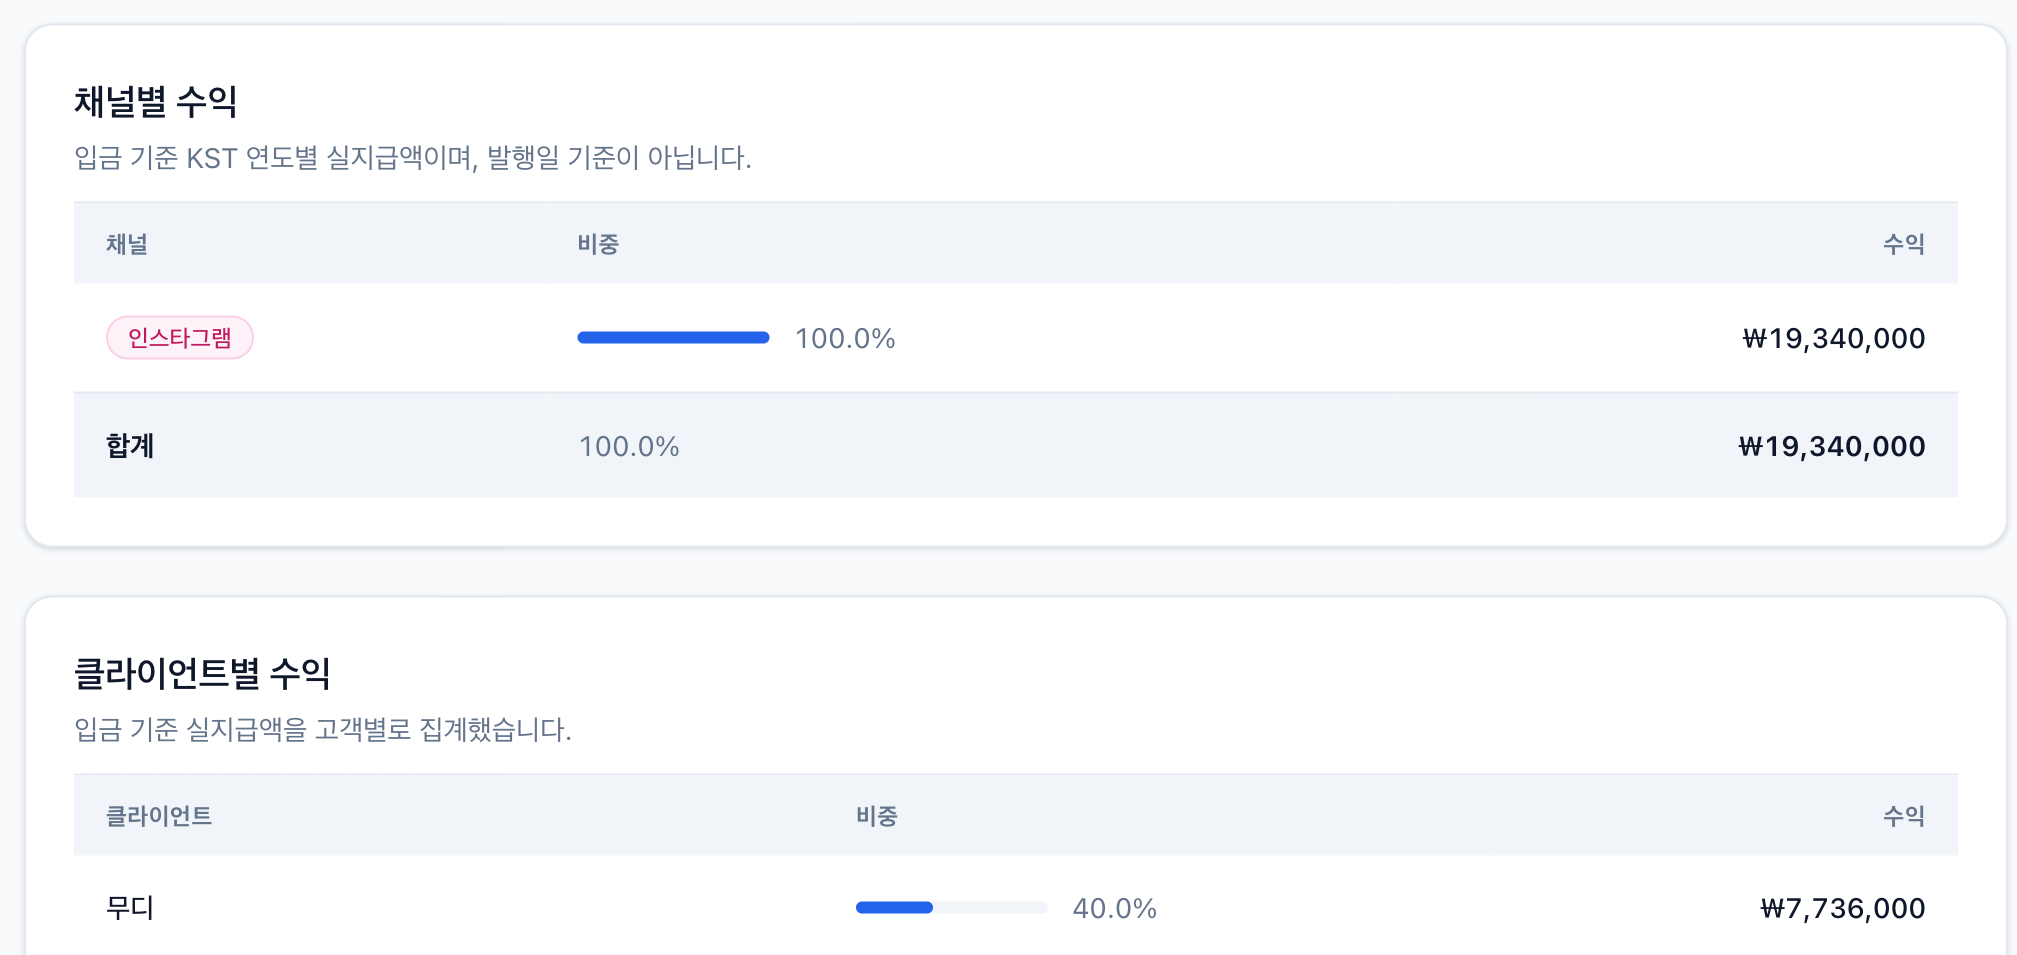
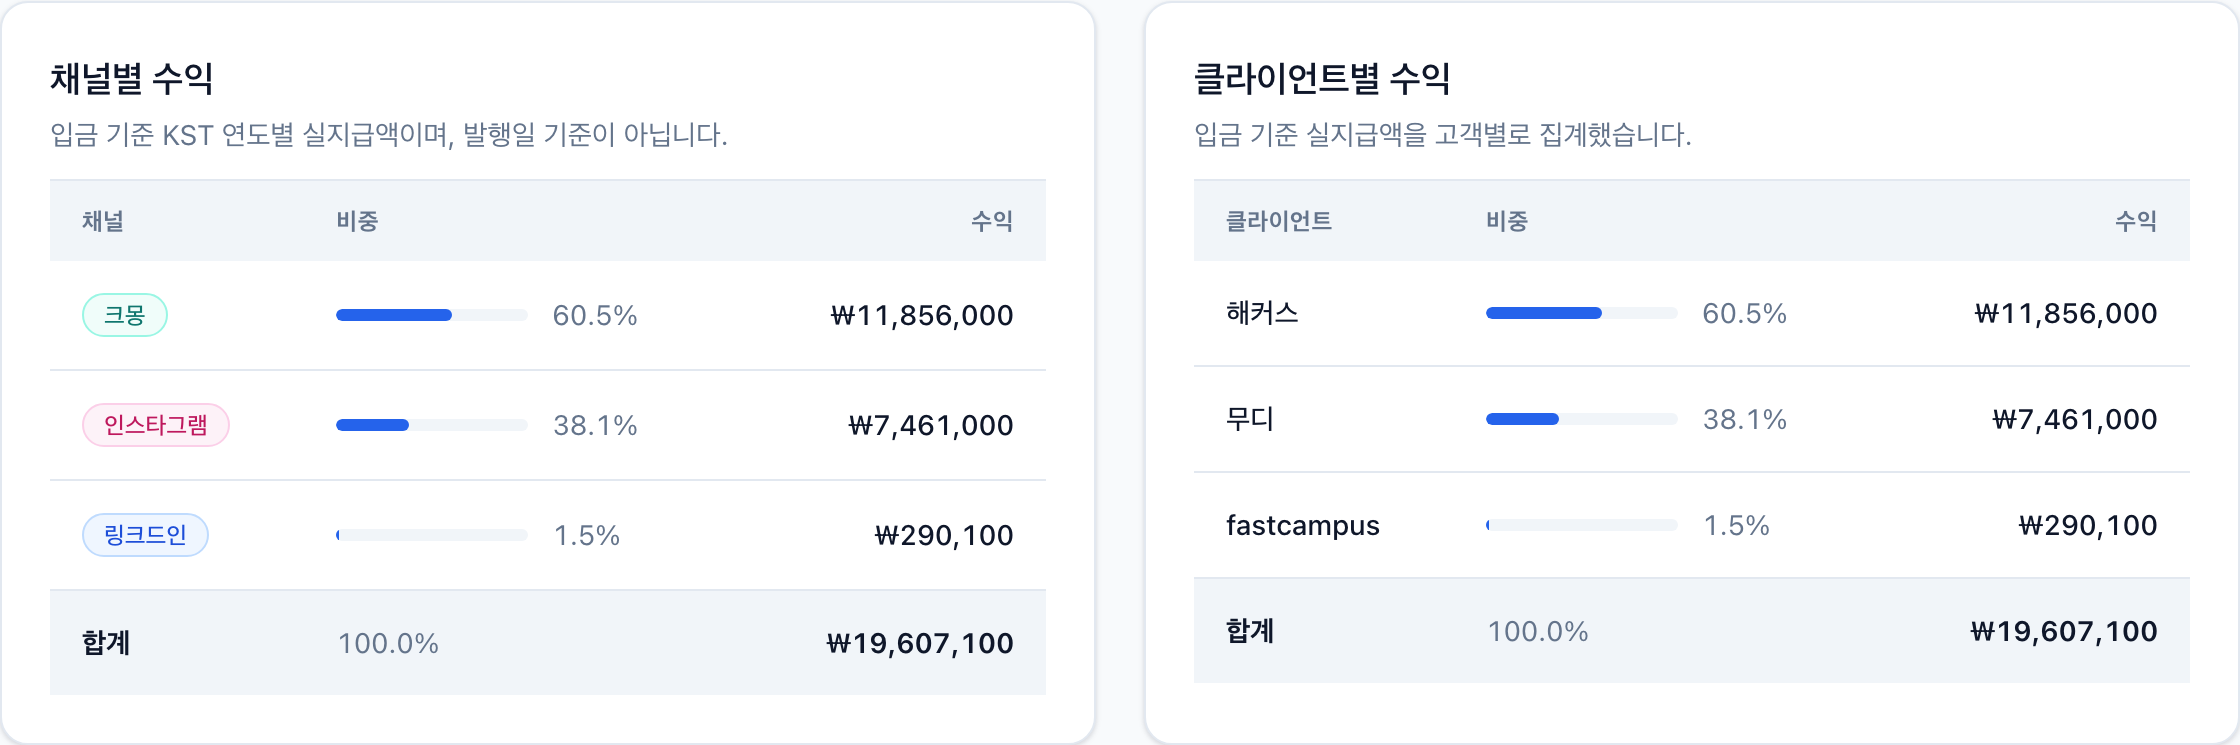
fix(ui): Pro 미리보기 캡처·엑셀 제목 서식·사이드바 뱃지 다듬기
- 요금제 미리보기의 채널·클라이언트 수익 캡처가 lg 미만 폭에서 찍혀 세로로
  쌓여 있었다. 실제 리포트(lg:grid-cols-2)와 같은 가로 배치로 다시 캡처했다.
- 엑셀 원장 제목이 과하게 두꺼워 bold를 뺀다. 크기(18pt)·배경·테두리로
  이미 구분되므로 굵기는 필요 없다. 실제 파일이 바뀐 만큼 미리보기 캡처도
  새 서식으로 내려받은 .xlsx를 다시 렌더해 교체했다.
- 사이드바 Pro 뱃지를 44×22 → 35×18로 줄인다. text-[10px]만으로는 부모
  line-height(20px)가 상속돼 높이가 그대로여서 leading-4를 함께 준다.

diff --git a/src/lib/__tests__/reports-xlsx.test.ts b/src/lib/__tests__/reports-xlsx.test.ts
@@ -38,13 +38,14 @@ describe("buildTaxLedgerSheet", () => {
 
     expect(title).toMatchObject({
       value: "FreeSign 세무 원장 · 2026년",
-      fontWeight: "bold",
       align: "center",
       alignVertical: "center",
       borderColor: expect.any(String),
       backgroundColor: expect.any(String),
       columnSpan: 8,
     });
+    // 크기와 배경으로 이미 제목이 구분되므로 굵기는 주지 않는다.
+    expect(title.fontWeight).toBeUndefined();
     expect(title.fontSize).toBeGreaterThan(14);
     expect(title.height).toBeGreaterThan(24);
     // 병합된 칸은 null로 채워야 뒤 열이 밀리지 않는다.

diff --git a/src/components/app-sidebar.tsx b/src/components/app-sidebar.tsx
@@ -76,7 +76,14 @@ export function AppSidebar({ plan }: { plan: Plan }) {
                 key={item.href}
               >
                 {item.label}
-                {item.proOnly ? <Badge variant="neutral">Pro</Badge> : null}
+                {item.proOnly ? (
+                  <Badge
+                    variant="neutral"
+                    className="px-2 py-0 text-[10px] leading-4"
+                  >
+                    Pro
+                  </Badge>
+                ) : null}
               </Link>
             );
           })}

diff --git a/src/components/billing/pro-feature-showcase.tsx b/src/components/billing/pro-feature-showcase.tsx
@@ -61,8 +61,8 @@ const FEATURES: ProFeature[] = [
     description:
       "입금 완료 기준으로 채널별 수익과 클라이언트별 수익을 나란히 집계합니다. 다음에 어디에 시간을 쓸지 판단할 수 있어요.",
     src: "/screenshots/pro/revenue-ranking.png",
-    width: 2017,
-    height: 955,
+    width: 2240,
+    height: 745,
   },
   {
     key: "excel",

diff --git a/src/lib/reports-xlsx.ts b/src/lib/reports-xlsx.ts
@@ -91,7 +91,6 @@ export function buildTaxLedgerSheet(
 ): { sheetData: SheetRow[]; columns: SheetColumn[] } {
   const titleRow = spanningRow({
     value: `FreeSign 세무 원장 · ${options.year}년`,
-    fontWeight: "bold",
     fontSize: 18,
     align: "center",
     alignVertical: "center",
